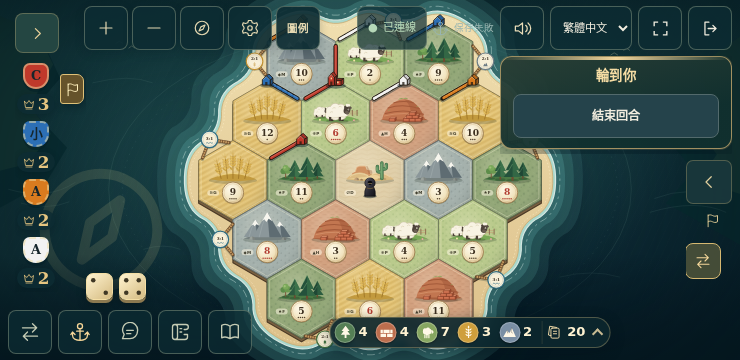
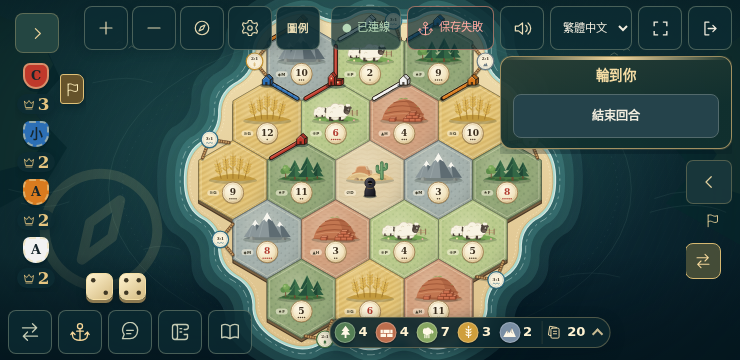
🐛 fix(web): make the compact save state readable over the board (#140)

Changed region(s): [[0.4351, 0.0, 0.6838, 0.1528]]

diff --git a/packages/web/src/styles/compact-landscape.css b/packages/web/src/styles/compact-landscape.css
@@ -30,8 +30,13 @@
  */
 .screen--game[data-layout="compact-landscape"] .status-strip__save[data-state="idle"],
 .screen--game[data-layout="compact-landscape"] .status-strip__save[data-state="saved"] { display: none; }
+/* 與連線狀態同樣用半透明小底的膠囊：疊在棋盤上也讀得清楚，不沿用直屏狀態列縮小的字級（side-layout.css）。 */
 .screen--game[data-layout="compact-landscape"] .status-strip__save[data-state="pending"],
-.screen--game[data-layout="compact-landscape"] .status-strip__save[data-state="failed"] { display: inline-flex; }
+.screen--game[data-layout="compact-landscape"] .status-strip__save[data-state="failed"] {
+  display: inline-flex; min-height: var(--hud-size); padding: 0 10px; font-size: .7rem; white-space: nowrap;
+  background: var(--hud-fill); border: 1px solid var(--hud-edge); border-radius: 8px;
+}
+.screen--game[data-layout="compact-landscape"] .status-strip__save[data-state="failed"] { color: var(--danger); border-color: #d98f78aa; }
 /* 連線狀態保持可見（docs/SPEC.md §8.1/§8.4），縮成半透明小底的燈號加短文字。 */
 .screen--game[data-layout="compact-landscape"] .status-strip [data-testid="connection-state"] {
   min-height: var(--hud-size); padding: 0 10px; font-size: .7rem; white-space: nowrap;
@@ -141,7 +146,9 @@
   .screen--game[data-layout="compact-landscape"] .board--side-controls .board__toolbar--side > .button,
   .screen--game[data-layout="compact-landscape"] .board--side-controls .board__display-settings > summary { width: 40px; }
   .screen--game[data-layout="compact-landscape"] .status-strip { gap: 4px; }
-  .screen--game[data-layout="compact-landscape"] .status-strip [data-testid="connection-state"] { padding: 0 7px; font-size: .64rem; }
+  .screen--game[data-layout="compact-landscape"] .status-strip [data-testid="connection-state"],
+  .screen--game[data-layout="compact-landscape"] .status-strip__save[data-state="pending"],
+  .screen--game[data-layout="compact-landscape"] .status-strip__save[data-state="failed"] { padding: 0 7px; font-size: .64rem; }
   .screen--game[data-layout="compact-landscape"] .status-strip .language-switch select { max-width: 78px; padding-inline: 6px 2px; font-size: .64rem; }
 }
 

diff --git a/scripts/compact-hud/capture.py b/scripts/compact-hud/capture.py
@@ -307,6 +307,11 @@ def save_failure_pass(table: Table, shots: Shots, checks: dict, label: str, size
     viewport = page.viewport_size
     checks[f"{label}FailedVisibleWithDialogClosed"] = box is not None and box["x"] >= 0 and box["y"] >= 0 \
         and box["x"] + box["width"] <= viewport["width"] + 0.5 and box["y"] + box["height"] <= viewport["height"] + 0.5
+    # 疊在棋盤上要讀得清楚：字級至少 10px，且有不透明度大於 0 的底色（不是直接印在棋盤上）。
+    style = page.get_by_test_id("save-state").evaluate(
+        "(node) => { const s = getComputedStyle(node); return { fontSize: parseFloat(s.fontSize), background: s.backgroundColor }; }"
+    )
+    checks[f"{label}FailedLegible"] = style["fontSize"] >= 10 and style["background"] not in ("rgba(0, 0, 0, 0)", "transparent")
     shots.take(table, f"{len(shots.files) + 1:02d}-save-failed-{size[0]}x{size[1]}-{locale}")
 
 

diff --git a/docs/screenshots/compact-hud/README.md b/docs/screenshots/compact-hud/README.md
@@ -2,8 +2,9 @@
 
 Review captures for the floating HUD on short landscape phones (#89) and for the
 save state that stays visible in that layout (#90). They were rendered from
-commit `e44804b` on 2026-11-07, after saving moved from the table menu into the
-leave dialog.
+commit `11010a8` on 2026-11-07, after saving moved from the table menu into the
+leave dialog and the save state in this layout became a pill with its own
+backdrop, like the connection state, so it reads over the board.
 
 Captured from the production build (`pnpm build`) in headless Chromium with
 device scale factor 1 and reduced motion. The script starts a disposable
@@ -23,7 +24,7 @@ its contents scroll inside the dialog box.
 | `03-action-rail-open-844x390-en.png` | en | 844×390 | Action rail open above the HUD |
 | `04-target-picker-above-hud-844x390-en.png` | en | 844×390 | Target list open while the robber must move; picker sits above the HUD |
 | `05-save-pending-844x390-en.png` | en | 844×390 | Save request held from the leave dialog: "Save pending…" on its button and the working note |
-| `06-save-failed-844x390-en.png` | en | 844×390 | Failed receipt after closing the dialog: "Save failed" stays in the status strip |
+| `06-save-failed-844x390-en.png` | en | 844×390 | Failed receipt after closing the dialog: "Save failed" stays in the status strip as a red pill on a dark backdrop |
 | `07-floating-hud-740x360-zh-Hant.png` | zh-Hant | 740×360 | Compact landscape HUD in Traditional Chinese |
 | `08-save-failed-dialog-open-740x360-zh-Hant.png` | zh-Hant | 740×360 | Leave dialog still open, failed save reported inside it |
 | `09-save-failed-740x360-zh-Hant.png` | zh-Hant | 740×360 | Failed receipt visible after the dialog is closed |
@@ -34,7 +35,8 @@ The script asserts the compact layout is active, the status strip is absolutely
 positioned, the board takes the full viewport height, the page does not scroll,
 the leave button stays inside the viewport, the target picker is above the HUD,
 the save state is visible while the save is pending, and "Save failed" stays
-visible in the status strip after the dialog is closed.
+visible in the status strip after the dialog is closed, at a font size of at
+least 10px on a backdrop that is not transparent.
 
 ## Reproduce
 

diff --git a/docs/screenshots/README.md b/docs/screenshots/README.md
@@ -33,7 +33,7 @@ touch, screen-reader or 200%-zoom evidence exists yet (`docs/FIDELITY.md`, gap 5
 | [`boot-progress/`](boot-progress/README.md) | Step-by-step startup progress from PR #79: each pending step, the slow hint and the failed states, desktop and phone | `a200840` (2026-11-04) | [`scripts/boot-progress/capture.py`](../../scripts/boot-progress/capture.py) |
 | [`board-motion/`](board-motion/README.md) | Key frames of roads and buildings dropping from the sky (PR #80) and the board held during the roll presentation (PR #91), SVG and 3D | `a200840` (2026-11-04) | [`scripts/board-motion/capture.py`](../../scripts/board-motion/capture.py) |
 | [`target-picker/`](target-picker/README.md) | Compact target picker from PR #85: target list, picker for overlapping targets and dismissal by an outside click, desktop and phone | `a200840` (2026-11-04) | [`scripts/target-picker/capture.py`](../../scripts/target-picker/capture.py) |
-| [`compact-hud/`](compact-hud/README.md) | Floating HUD on short landscape phones from PR #89 (844×390, 740×360, 568×320, touch) and the save state kept visible in that layout from PR #90, saved from the leave dialog | `e44804b` (2026-11-07) | [`scripts/compact-hud/capture.py`](../../scripts/compact-hud/capture.py) |
+| [`compact-hud/`](compact-hud/README.md) | Floating HUD on short landscape phones from PR #89 (844×390, 740×360, 568×320, touch) and the save state kept visible in that layout from PR #90, saved from the leave dialog and shown as a pill over the board | `11010a8` (2026-11-07) | [`scripts/compact-hud/capture.py`](../../scripts/compact-hud/capture.py) |
 | [`dialog-portal/`](dialog-portal/README.md) | Trade settle dialog rendered through a portal instead of clipped by the table panel (PR #92), desktop and short landscape | `a200840` (2026-11-04) | [`scripts/dialog-portal/capture.py`](../../scripts/dialog-portal/capture.py) |
 
 `current/`, `hand-cards/` and `discard-prompt/` reflect the table as it is
